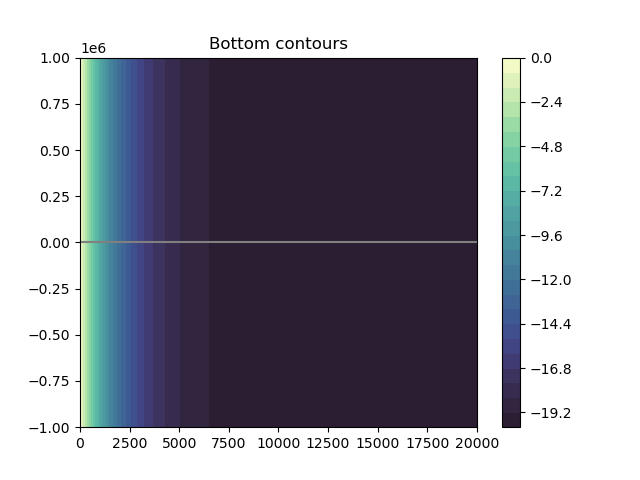
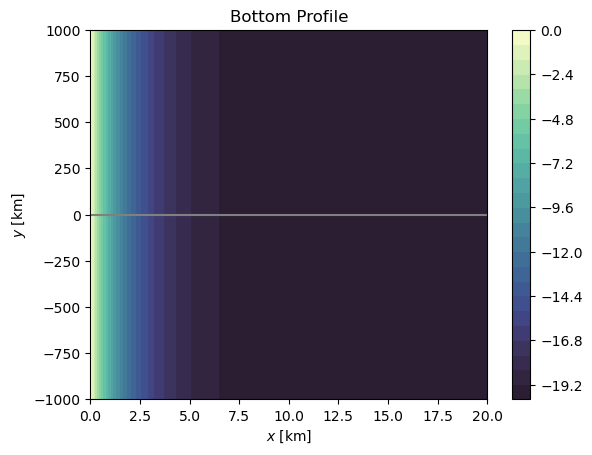
format figure bathymetry

Changed region(s): [[0.0, 0.0, 1.0, 0.9846]]

diff --git a/functions/bathymetry.py b/functions/bathymetry.py
@@ -112,22 +112,27 @@ def plot_bathymetry(data, filename=None, xmax=None):
 
     if xmax is None:
         xmax = x.max()
+    xmax /= 1000
 
     ## figure 1 - cross-section
     plt.figure()
-    plt.plot(x, b[i, :])
-    plt.title(f"Bottom cross-section at $y={y[i]}$")
+    plt.plot(x / 1000., b[i, :])
+    plt.title(f"Bottom Profile Cross-Section at $y={y[i]}$")
     plt.xlim(0, xmax)
-    plt.savefig(f"{filename}_cross")
+    plt.xlabel("$x$ [km]")
+    plt.ylabel("Bed Level [m]")
+    plt.savefig(f"{filename}_cross", bbox_inches="tight")
 
     ## figure 2 - map
     plt.figure()
-    plt.contourf(x, y, b, levels=31, cmap=cmo.cm.topo, vmin=b_min, vmax=b_max)
+    plt.contourf(x / 1000., y / 1000., b, levels=31, cmap=cmo.cm.topo, vmin=b_min, vmax=b_max)
     plt.colorbar()
     plt.axhline(y[i], color="gray")
-    plt.title(f"Bottom contours")
+    plt.title(f"Bottom Profile")
     plt.xlim(0, xmax)
-    plt.savefig(f"{filename}_contour")
+    plt.xlabel("$x$ [km]")
+    plt.ylabel("$y$ [km]")
+    plt.savefig(f"{filename}_contour", bbox_inches="tight")
 
     return
 
